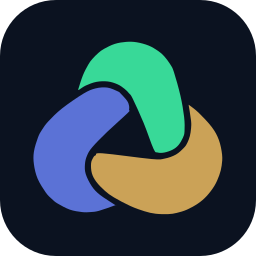
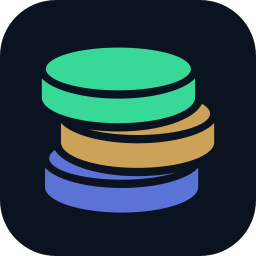
Replace brand mark with three stacked coins
- New branding/build-master.mjs builds the coin geometry with paper.js
  boolean ops and writes axis-mark.svg; gaps are real cut-outs so the
  monochrome notification and themed icons keep the coins separate
- Regenerated all MAUI, Android notification, web, email and store assets
- README and preview describe the new mark

Changed region(s): [[0.125, 0.1562, 0.875, 0.8438], [0.1875, 0.75, 0.2188, 0.7812]]

diff --git a/branding/preview.html b/branding/preview.html
@@ -1,7 +1,7 @@
 <!doctype html><html lang="en"><meta charset="utf-8"><meta name="viewport" content="width=device-width,initial-scale=1"><title>Axis identity</title>
 <style>body{margin:0;background:#070b12;color:#f2f5fa;font:15px/1.5 system-ui,sans-serif}main{max-width:1100px;padding:40px 24px;margin:auto}h1{font-size:36px;margin:0}header p{color:#8d97a8;margin:8px 0 32px}.grid{display:grid;grid-template-columns:repeat(3,minmax(0,1fr));gap:20px}.card{background:#101826;border:1px solid #232e42;border-radius:16px;padding:24px}h2{font-size:16px;margin:0 0 24px}.large{display:block;width:192px;height:192px;max-width:100%;margin:0 auto 20px}.mask{display:flex;align-items:center;justify-content:center;width:192px;height:192px;max-width:100%;margin:0 auto 20px;background:#0b1220;overflow:hidden}.round{border-radius:50%}.squircle{border-radius:25%}.mask img{width:91.5%;height:91.5%}small{color:#8d97a8}.mini{display:flex;align-items:center;gap:24px;min-height:90px;flex-wrap:wrap}.mini figure{margin:0;display:grid;justify-items:center;gap:8px}.mono{display:flex;align-items:center;gap:24px;height:120px}.mono img{width:64px;height:64px}.light{display:flex;align-items:center;justify-content:center;width:96px;height:96px;background:#f2f5fa;border-radius:12px}.light img{filter:brightness(0);width:48px;height:48px}.palette{display:flex;gap:12px;flex-wrap:wrap;margin-top:24px}.swatch{padding:12px 16px;border-radius:8px;font:13px ui-monospace,monospace;color:#08101f}@media(max-width:800px){.grid{grid-template-columns:1fr 1fr}}@media(max-width:500px){.grid{grid-template-columns:1fr}}</style>
 <main><header><h1>Axis</h1><p>Production identity · one vector source, every application</p></header><div class="grid">
-<section class="card"><h2>Web / PWA</h2><img class="large" src="axis-icon.svg" alt="Blue, mint and amber Axis icon"><small>Full-colour app tile</small></section>
+<section class="card"><h2>Web / PWA</h2><img class="large" src="axis-icon.svg" alt="Axis icon: three stacked coins"><small>Full-colour app tile</small></section>
 <section class="card"><h2>Android · circle mask</h2><div class="mask round"><img src="axis-mark.svg" alt="Axis adaptive icon with a circle mask"></div><small>Clear space for launcher masks</small></section>
 <section class="card"><h2>Android · rounded mask</h2><div class="mask squircle"><img src="axis-mark.svg" alt="Axis adaptive icon with a rounded square mask"></div><small>Same foreground, separate background</small></section>
 <section class="card"><h2>Favicon · actual sizes</h2><div class="mini"><figure><img src="axis-icon.svg" width="16" height="16" alt="16 pixel icon"><small>16px</small></figure><figure><img src="axis-icon.svg" width="32" height="32" alt="32 pixel icon"><small>32px</small></figure><figure><img src="axis-icon.svg" width="48" height="48" alt="48 pixel icon"><small>48px</small></figure></div><small>SVG and multi-resolution ICO</small></section>

diff --git a/branding/README.md b/branding/README.md
@@ -1,19 +1,20 @@
 # Axis identity assets
 
-The approved mark has three interlocking shapes: muted blue `#5B72D6`, mint `#38D998`, and muted amber `#CBA257`. Navy `#0B1220` is the tile/background colour. The production SVG uses flat fills and preserves the approved silhouette.
+The approved mark is three stacked coins with transparent gaps between them: muted blue `#5B72D6` at the bottom, muted amber `#CBA257` in the middle, and mint `#38D998` on top. Navy `#0B1220` is the tile/background colour. The production SVG uses flat fills; the gaps are real cut-outs, so the monochrome silhouettes keep them.
 
 ## Source and generation
 
-`axis-mark.svg` is the editable vector master. All copies, raster sizes, and the Android notification drawable are generated from its three paths by `generate-assets.mjs`.
+`build-master.mjs` is the geometry source: it builds the coins with paper.js boolean operations and writes `axis-mark.svg`, the vector master. All copies, raster sizes, and the Android notification drawable are generated from its three paths by `generate-assets.mjs`.
 
-The generator needs Node.js and Sharp as a development tool, not a browser dependency. With Sharp available in `webapp/node_modules`:
+The generator needs Node.js, Sharp and (for `build-master.mjs`) paper.js as development tools, not a browser dependency. With Sharp and paper available in `webapp/node_modules`:
 
 ```powershell
+node branding/build-master.mjs
 node branding/generate-assets.mjs
 node branding/verify-assets.mjs
 ```
 
-For a one-off regeneration without changing the app's dependency files, install it from `webapp/` with `npm install --no-save --package-lock=false sharp`. Alternatively set `AXIS_SHARP_PATH` to an existing Sharp module directory. Run the generator from any working directory. After a Debug Android build, `node branding/verify-assets.mjs --android-build` also checks the actual generated adaptive foreground against the 66dp safe circle. If changing `ForegroundScale`, use a rebuild to refresh MAUI's generated icon cache.
+For a one-off regeneration without changing the app's dependency files, install them from `webapp/` with `npm install --no-save --package-lock=false paper sharp`. Alternatively set `AXIS_SHARP_PATH` or `AXIS_PAPER_PATH` to an existing module path. Run the generator from any working directory. After a Debug Android build, `node branding/verify-assets.mjs --android-build` also checks the actual generated adaptive foreground against the 66dp safe circle. If changing `ForegroundScale`, use a rebuild to refresh MAUI's generated icon cache.
 
 `verify-assets.mjs` checks path parity, colours, PNG/ICO dimensions, transparent white notification pixels, maskable safe areas, and application wiring. Open `preview.html` to review the colour and monochrome variants at their actual small sizes.
 
